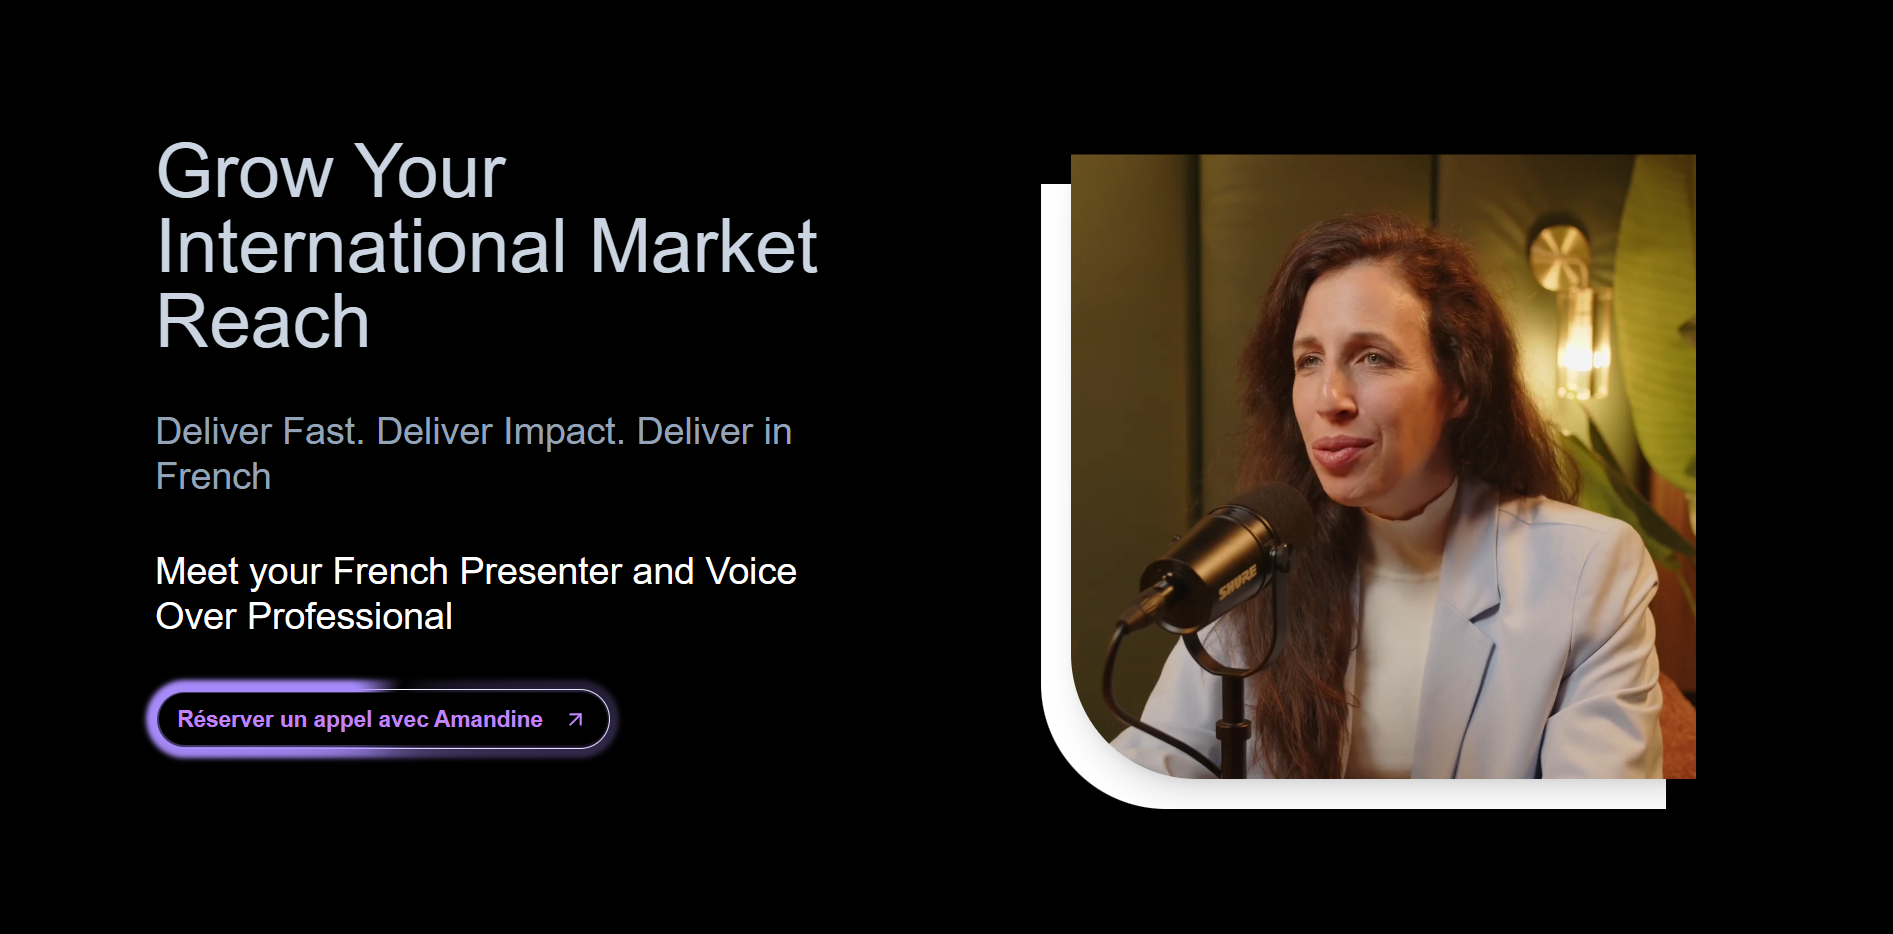
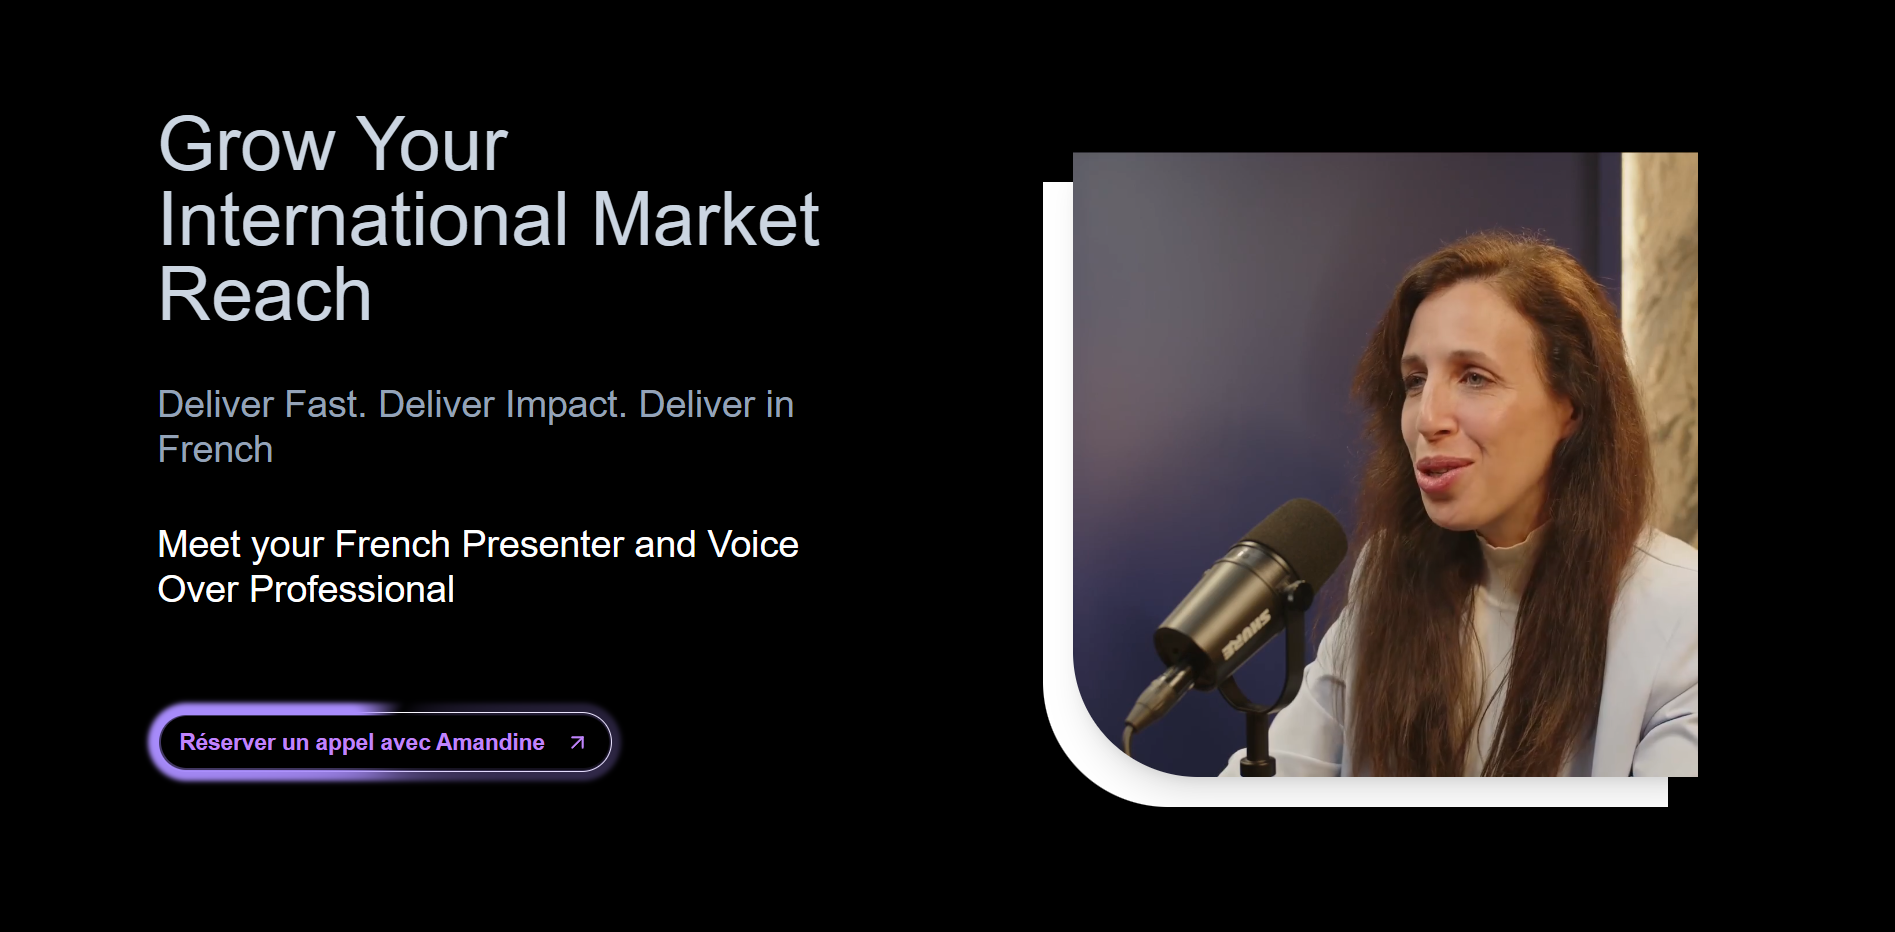
Refine timeline entries in "Qui suis-je" page by adding location details and correcting bullet point formatting. Update image for enhanced visual content.

diff --git a/app/qui-suis-je/page.tsx b/app/qui-suis-je/page.tsx
@@ -20,7 +20,7 @@ const timelineEvents = [
   {
     icon: Users,
     date: "Expérience récente",
-    title: "Expérience chez FeelingJack.eu (Edimburgh)",
+    title: "Expérience chez FeelingJack.eu, Edimburgh",
     description:
       "Conception et développement d'une application SaaS événementiel pour la gestion des bénévoles (Proof of Concept : Marathon du Lac d'Annecy). Mise en place d'une Clean Architecture avec optimisations API (+40% de vélocité), création de dashboards avec gestion des rôles utilisateurs et filtres géolocalisés. Stack : Next.js, Strapi V5, TypeScript, TailWind CSS, déployé sur Digital Ocean/AWS.",
     color: "text-indigo-400",
@@ -28,7 +28,7 @@ const timelineEvents = [
   {
     icon: Building,
     date: "2022",
-    title: "Développeur Drupal chez Smile",
+    title: "Développeur Drupal chez Smile, Lille",
     description:
       "Expérience en développement Drupal au sein de l'agence Smile.",
     color: "text-cyan-400",
@@ -37,7 +37,7 @@ const timelineEvents = [
     icon: Code,
     date: "Reconversion dès 2021",
     title:
-      "Formation Développeur Web (Bac + 2, obtenu) + Formation CDA Java/SpringBoot/Maven (non diplômante)",
+      "Formation Développeur Web (Bac + 2, obtenu) + Formation CDA Java/SpringBoot/Maven, Amiens",
     description:
       "Acquisition de compétences en développement (Java, Spring, POO, Jira, Git) pour mieux comprendre les enjeux techniques et collaborer efficacement sur les projets professionnels (Saas, Applications).",
     color: "text-orange-400",
@@ -45,12 +45,12 @@ const timelineEvents = [
   {
     icon: Briefcase,
     date: "2017 - 2021",
-    title: "Ingénieur du Son Freelance",
+    title: "Ingénieur du Son Freelance, Amiens",
     description:
       "Lancement de mon activité indépendante, accompagnant artistes, entreprises et créateurs dans leurs projets audio. Complété par la formation 'Créer - reprendre une entreprise' (BGE, 2018, Certificat Obtenu).",
     bulletPoints: [
-      "Répondre au besoin Urgent du client",
-      "Exigence élevée quand au rendu du travail",
+      "Répondre au besoin urgent du client",
+      "Exigence élevée quant au rendu du travail",
       "Deadlines à respecter",
     ],
     color: "text-emerald-400",
@@ -66,7 +66,7 @@ const timelineEvents = [
   {
     icon: Mic,
     date: "2014 - 2017",
-    title: "Expérience en Studio d'Enregistrement",
+    title: "Expérience en Studio d'Enregistrement, St-Quentin",
     description:
       "Premières armes en environnement professionnel, gestion de sessions d'enregistrement et assistance au mixage + accueil client, encaissements, résolution de problèmes.",
     color: "text-purple-400",
@@ -212,8 +212,8 @@ export default function QuiSuisJePage() {
                 {event.bulletPoints && (
                   <ul className="mt-4 space-y-2 text-zinc-300">
                     {event.bulletPoints.map((point, pointIndex) => (
-                      <li key={pointIndex} className="flex items-start">
-                        <span className="text-[#d4af37] mr-2 mt-1">•</span>
+                      <li key={pointIndex} className="flex items-center">
+                        <span className="text-[#d4af37] mr-2">•</span>
                         <span className="text-sm">{point}</span>
                       </li>
                     ))}
@@ -312,17 +312,21 @@ export default function QuiSuisJePage() {
                             </ul>
                           )}
                         </div>
-                        <a
-                          href={achievement.websiteUrl}
-                          target="_blank"
-                          rel="noopener noreferrer"
-                          className="inline-flex items-center mt-6 text-sm font-semibold text-[#d4af37] hover:text-yellow-400"
-                        >
-                          {achievement.id === "amandine-voix-off"
-                            ? "développement en cours"
-                            : "Visiter le site"}{" "}
-                          <ArrowRight className="w-4 h-4 ml-1" />
-                        </a>
+                        {achievement.id === "amandine-voix-off" ? (
+                          <span className="inline-flex items-center mt-6 text-sm font-semibold text-[#d4af37]">
+                            Développement en cours
+                          </span>
+                        ) : (
+                          <a
+                            href={achievement.websiteUrl}
+                            target="_blank"
+                            rel="noopener noreferrer"
+                            className="inline-flex items-center mt-6 text-sm font-semibold text-[#d4af37] hover:text-yellow-400"
+                          >
+                            Visiter le site{" "}
+                            <ArrowRight className="w-4 h-4 ml-1" />
+                          </a>
+                        )}
                       </div>
                     </div>
                   </div>
